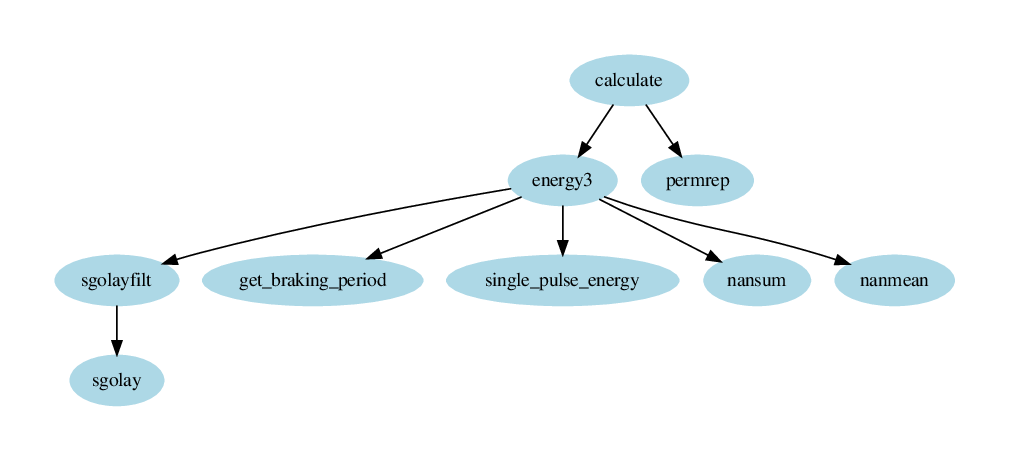
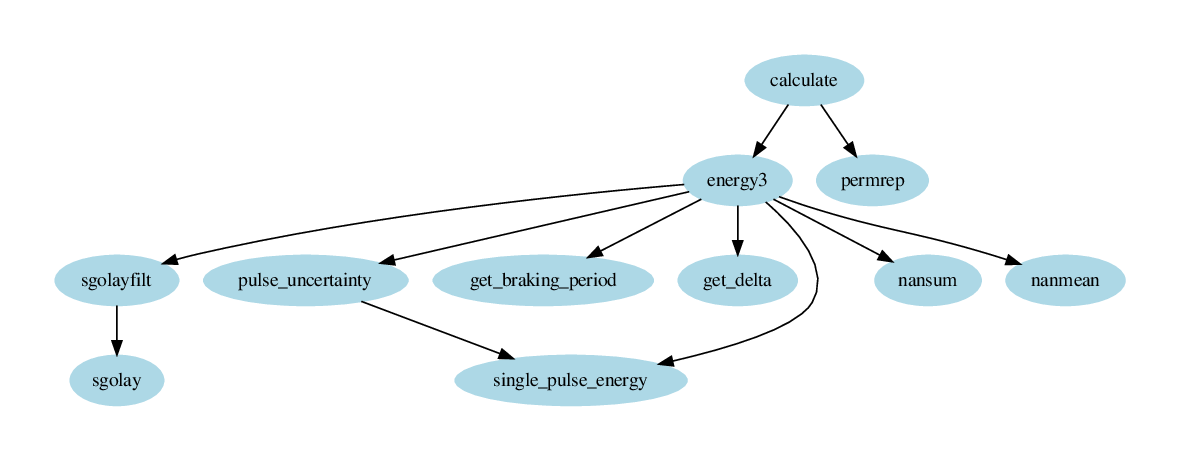
fix: uncertainty calculation

diff --git a/pulse_uncertainty.m b/pulse_uncertainty.m
@@ -26,7 +26,7 @@
 % - pulseno: index of a pulse in the breaking group
 % - dirpath: directory path to all data files
 
-function [uncrE1, uncrE2, uncrEPN1, uncrEPN2 report] = pulse_uncertainty(Ia, Ib, Vhf, Vdsfhf, fs, delta, ids, ide, tshift_pulse, tshift_PN, tshift_pulse_unc, tshift_PN_unc, plots, groupindex, pulseno, dirpath);
+function [uncrE1, uncrE2, uncrEPN1, uncrEPN2, report] = pulse_uncertainty(Ia, Ib, Vhf, Vdsfhf, fs, delta, udelta, ids, ide, tshift_pulse, tshift_PN, tshift_pulse_unc, tshift_PN_unc, plots, groupindex, pulseno, dirpath);
 % uncrE1 - relative uncertainty, configuration 1
 % uncrE2 - relative uncertainty, configuration 2
 % uncrEPN1 - relative uncertainty of noise, configuration 1
@@ -99,88 +99,102 @@ if plots %<<<1
         % plot continues ...
 end %>>>1
 
-% calculate uncertainty of energy based on uncertainty of noise and pulse limits %<<<1
+% calculate uncertainty contribution caused by uncertainty of noise and pulse limits %<<<1
 % generate all possible shifts in time for start/end of pulse
-pulse_ids = (tshift_pulse - tshift_pulse_unc):(tshift_pulse + tshift_pulse_unc);
+tshift_pulse_ids = (tshift_pulse - tshift_pulse_unc):(tshift_pulse + tshift_pulse_unc);
 % generate all possible shifts in time for pulse with noise around:
-PN_ids = (tshift_PN - tshift_PN_unc):(tshift_PN + tshift_PN_unc);
+tshift_PN_ids = (tshift_PN - tshift_PN_unc):(tshift_PN + tshift_PN_unc);
 % loop for all possible starts of pulse:
-for k = 1:length(pulse_ids)
-        idsS = ids - pulse_ids(k);
-        ideS = ide + pulse_ids(k);
+for k = 1:length(tshift_pulse_ids)
+        idsS = ids - tshift_pulse_ids(k);
+        ideS = ide + tshift_pulse_ids(k);
         % loop for all possible starts of noise around pulse:
-        for j = 1:length(PN_ids)
-                idsPN = ids - PN_ids(j);
-                idePN = ide + PN_ids(j);
-                                                                % copied from energy3 - should be changed into subfunction! XXX
-
-% delta randomizace
-% Vhf a Vdsfhf randomizace
-% Ia, Ib randomizace amplitudy
-
-                % RaX and RbX is not needed
-                [E1(k,j), E2(k,j), EPN1(k,j), EPN2(k,j), Ra1, Ra2, Rb1, Rb2, IaN, IbN] = single_pulse_energy(fs, Vhf, Vdsfhf, Ia, Ib, delta, ideS, idsS, idsPN, idePN, []);
-
-                % calculate uncertainty of energy based on current and voltage offsets and gains %<<<2
-                % this uncertainty is calculated only for values if idsS,ideS without uncertainties
-                % (nonrandomized pulse/noise start/end)
-                if (idsS == (ids - tshift_pulse)) && (idsPN == (ids - tshift_PN))
-                        % ensure row vector:
-                        Iatmp = Ia(idsS:ideS)(:)';
-                        % make monte carlo randomization with offset,gain into matrix (rows are monte carlo)
-                        Iam = normrnd(1, urIg, M, 1).*Iatmp + normrnd(0, uIo, M, size(Iatmp, 2));
-                        % subtract estimated offset line:
-                        Iam = bsxfun(@minus, Iam, IaN);
-                        Ibtmp = Ib(idsS:ideS)(:)';
-                        Ibm = normrnd(1, urIg, M, 1).*Ibtmp + normrnd(0, uIo, M, size(Ibtmp, 2));
-                        Ibm = bsxfun(@minus, Ibm, IbN);
-
-                        Vhftmp = Vhf(idsS:ideS)(:)';
-                        Vhfm = normrnd(1, urVg, M, 1).*Vhftmp + normrnd(0, uVo, M, size(Vhftmp, 2));
-                        Vdsfhftmp = Vdsfhf(idsS:ideS)(:)';
-                        Vdsfhfm = normrnd(1, urVg, M, 1).*Vdsfhftmp + normrnd(0, uVo, M, size(Vdsfhftmp, 2));
-
-
-                        tmp1 = trapz(Vhfm   .*Iam, 2)./fs;
-                        tmp2 = trapz(Vdsfhfm.*Ibm, 2)./fs;
-                        # XXX tady asi melo byt uE1(k,j) nebo uE1(i) nebo neco takoveho - ne,
-                        # protoze se to pocita jen jednou
-                        uE1 = trapz(Vhfm   .*Iam, 2)./fs + trapz(Vdsfhfm.*Ibm, 2)./fs;
-                        uE2 = trapz(Vdsfhfm.*Iam, 2)./fs + trapz(Vhfm   .*Ibm, 2)./fs;
-                end %<<<2
-                                                                % % put energy into matrix:
-                                                                % E1p(k,j) = E1(i);
-                                                                % E2p(k,j) = E2(i);
-                                                                % EPN1(k,j) = tmpE1;
-                                                                % EPN2(k,j) = tmpE2;
-
+        for j = 1:length(tshift_PN_ids)
+                idsPN = ids - tshift_PN_ids(j);
+                idePN = ide + tshift_PN_ids(j);
+                % RaX, RbX is not needed
+                [E1a(k,j), E2a(k,j), EPN1a(k,j), EPN2a(k,j), Ra1, Ra2, Rb1, Rb2, IaN, IbN] = single_pulse_energy(...
+                        fs,...
+                        Vhf,...
+                        Vdsfhf,...
+                        Ia,...
+                        Ib,...
+                        delta,...
+                        ideS,...
+                        idsS,...
+                        idsPN,...
+                        idePN,...
+                        []);
                 if plots
+                        % add actual data to plot
+                        % ... plot continues
                         plot(haa, idsS:ideS, IaN)
                         plot(hab, idsS:ideS, IbN)
+                        % plot continues ...
                 end
         end
 end
 
-% calculate relative standard uncertainty: %<<<1
+% Calculate uncertainty contribution caused by delta and current and voltage offsets and gains %<<<1
+% These uncertainties are calculated only for optimal values of idsS,ideS (nonrandomized pulse/noise
+% start/end)
+idsS == ids - tshift_pulse;
+ideS == ide + tshift_pulse;
+idsPN == ids - tshift_PN;
+idePN == ide + tshift_PN;
+
+% randomize delta value - uniform distribution:
+delta = unifrnd(delta - udelta, delta + udelta, M, 1);
+% randomize current gains and offsets
+Ia_offset = normrnd(0, uIo, M, size(Ia, 2));
+Ia_gain = normrnd(1, urIg, M, 1);
+Ib_offset = normrnd(0, uIo, M, size(Ib, 2));
+Ib_gain = normrnd(1, urIg, M, 1);
+% randomize voltage gains and offsets
+Vhf_offset = normrnd(0, uVo, M, size(Vhf, 2));
+Vhf_gain = normrnd(1, urVg, M, 1);
+Vdsfhf_offset = normrnd(0, uVo, M, size(Vdsfhf, 2));
+Vdsfhf_gain = normrnd(1, urVg, M, 1);
+
+% monte carlo loop
+for i = 1:M
+        % RaX, RbX, IaN, IbN is not needed
+        [E1b(i), E2b(i), EPN1b(i), EPN2b(i), Ra1, Ra2, Rb1, Rb2, IaN, IbN] = single_pulse_energy(...
+                fs,...
+                Vhf.*Vhf_gain(i) + Vhf_offset(i),...
+                Vdsfhf.*Vdsfhf_gain(i) + Vdsfhf_offset(i),...
+                Ia.*Ia_gain(i) + Ia_offset(i),...
+                Ib.*Ib_gain(i) + Ib_offset(i),...
+                delta(i),...
+                ideS,...
+                idsS,...
+                idsPN,...
+                idePN,...
+                []);
+end
+
+% calculate total relative standard uncertainty: %<<<1
 % uncertainty by noise fitting:
 % (the probability distribution function is not simple, so suppose rectangular distribution:)
-uncrE1   = ( std(E1(:))./sqrt(3)   )./mean(E1(:));
-uncrE2   = ( std(E2(:))./sqrt(3)   )./mean(E1(:));
-uncrEPN1 = ( std(EPN1(:))./sqrt(3) )./mean(E1(:));
-uncrEPN2 = ( std(EPN2(:))./sqrt(3) )./mean(E1(:));
+uncrE1a   = ( std(E1a(:))./sqrt(3)   )./mean(E1a(:));
+uncrE2a   = ( std(E2a(:))./sqrt(3)   )./mean(E1a(:));
+uncrEPN1a = ( std(EPN1a(:))./sqrt(3) )./mean(EPN1a(:));
+uncrEPN2a = ( std(EPN2a(:))./sqrt(3) )./mean(EPN1a(:));
 
 % uncertainty caused by offset/gain:
-                        # XXX tady asi melo byt uE1(:) nebo neco takoveho - ne, protoze se uE1/2 pocita jen jednou
-urE1 = (uncrE1.^2 + (std(uE1)./mean(E1(:))).^2 )^0.5;
-urE2 = (uncrE2.^2 + (std(uE2)./mean(E2(:))).^2 )^0.5;
+uncrE1b = std(E1b)./mean(E1b(:));
+uncrE2b = std(E2b)./mean(E2b(:));
 
-
-uncrE1 = (uncrE1.^2 + urE1.^2)^0.5;
-uncrE2 = (uncrE2.^2 + urE2.^2)^0.5;
+% total relative uncertainty:
+uncrE1 = (uncrE1a.^2 + uncrE1b.^2)^0.5;
+uncrE2 = (uncrE2a.^2 + uncrE2b.^2)^0.5;
+uncrEPN1 = uncrEPN1a;
+uncrEPN2 = uncrEPN2a;
 
 % display informations: %<<<1
 % description is not really clear, improve! XXX
-report{end+1} = sprintf('pulse %d. u_r from fitting: %.3g, %.3g, from noise/gain: %.3g, %.3g.', pulseno, uncrE1, uncrE2, urE1, urE2);
+report{end+1} = sprintf('pulse %d. u_r from fitting: %.3g, %.3g, from noise/gain: %.3g, %.3g.', pulseno, uncrE1a, uncrE2a, uncrE1b, uncrE2b);
+report{end+1} = sprintf('total uncertainty: %.3g, %.3g.', uncrE1, uncrE2);
 
 if plots
         % finish plotting
@@ -189,8 +203,8 @@ if plots
         set(hab, 'yscale', 'log');
         legend(haa, 'Ia', 'pulse start', 'pulse end', 'time shifted pulse start', 'time shifted pulse end', 'start of noise for fit', 'end of noise for fit', 'fit of noise')
         legend(hab, 'Ib', 'pulse start', 'pulse end', 'time shifted pulse start', 'time shifted pulse end', 'start of noise for fit', 'end of noise for fit', 'fit of noise')
-        title(haa, sprintf('Gr. %d - Selected current pulse no %d\nNoise in pulse region is approx. %g %%', groupindex, pulseno, mean(EPN1(:))./mean(E1(:)).*100))
-        title(hab, sprintf('Gr. %d - Selected current pulse no %d\nNoise in pulse region is approx. %g %%', groupindex, pulseno, mean(EPN2(:))./mean(E2(:)).*100))
+        title(haa, sprintf('Gr. %d - Selected current pulse no %d\nNoise in pulse region is approx. %g %%', groupindex, pulseno, mean(EPN1a(:))./mean(EPN1a(:)).*100))
+        title(hab, sprintf('Gr. %d - Selected current pulse no %d\nNoise in pulse region is approx. %g %%', groupindex, pulseno, mean(EPN2a(:))./mean(EPN1a(:)).*100))
 
         saveplot(sprintf('%05d-selected_current_pulse_Ib_%04d', groupindex, pulseno), dirpath)
         close

diff --git a/single_pulse_energy.m b/single_pulse_energy.m
@@ -1,4 +1,4 @@
-% Script calculates energy of a single pulse, based on paper:
+% Script calculates energy of a single pulse, based on paper: %<<<1
 % D. Giordano, D. Signorino, D. Gallo, H. E. van den Brom, and M. Sira, ‘Methodology for the
 % Accurate Measurement of the Power Dissipated by Braking Rheostats’, Sensors, vol. 20, no. 23, Art.
 % no. 23, Jan. 2020, doi: 10.3390/s20236935.
@@ -38,7 +38,7 @@ function [E1, E2, EPN1, EPN2, Ra1, Ra2, Rb1, Rb2, IaN, IbN] = single_pulse_energ
         % tmpIb = Ib(idsS:ideS) - polyval(pb, [idsS:ideS]);
         IbN = polyval(pb, [idsS:ideS]);
 
-        % resistance of shunts during pulse:
+        % Resistance of shunts during pulse: %<<<1
         id = find(max(Ia(idsS:ideS)) == Ia(idsS:ideS));
         id = id(1) + idsS - 1;
         Ra1 = Vhf   (id)./Ia(id);
@@ -46,18 +46,18 @@ function [E1, E2, EPN1, EPN2, Ra1, Ra2, Rb1, Rb2, IaN, IbN] = single_pulse_energ
         Rb1 = Vhf   (id)./Ib(id);
         Rb2 = Vdsfhf(id)./Ib(id);
 
-        % calculate energy of pulse and noise %<<<1
+        % Calculate energy of pulse and noise %<<<1
         % energy of pulse with noise pulse
         E1 = trapz(Vhf   (idsS:ideS).*Ia(idsS:ideS))./fs + trapz(Vdsfhf(idsS:ideS).*Ib(idsS:ideS))./fs;
         E2 = trapz(Vdsfhf(idsS:ideS).*Ia(idsS:ideS))./fs + trapz(Vhf   (idsS:ideS).*Ib(idsS:ideS))./fs;
         % energy of noise part during pulse:
         EPN1 = trapz(Vhf   (idsS:ideS).*IaN)./fs + trapz(Vdsfhf(idsS:ideS).*IbN)./fs;
         EPN2 = trapz(Vdsfhf(idsS:ideS).*IaN)./fs + trapz(Vhf   (idsS:ideS).*IbN)./fs;
-        % subtract energy of noise from energy of pulse %<<<1
+        % Subtract energy of noise from energy of pulse %<<<1
         E1 = E1 - EPN1;
         E2 = E2 - EPN2;
 
-        % apply pulse shape correction factor K_DC %<<<1
+        % Apply pulse shape correction factor K_DC %<<<1
         % load the table:
         %XXX 2DO load from file
         delta_K_DC_table = [0.007 0.02 0.04 0.08 0.010 0.015 0.030; 0.633 0.850 0.923 0.961 0.969 0.979 0.99]';
@@ -74,7 +74,7 @@ function [E1, E2, EPN1, EPN2, Ra1, Ra2, Rb1, Rb2, IaN, IbN] = single_pulse_energ
         E1 = E1.*K_DC;
         E2 = E2.*K_DC;
 
-        % apply correction for the current sensor K_HOP %<<<1
+        % Apply correction for the current sensor K_HOP %<<<1
         % load the table:
         %XXX 2DO load from file
         delta_K_HOP_table = [0.007 0.02 0.08 0.010 0.015 0.030; 1.124 0.960 0.975 0.980 0.987 0.993];

diff --git a/energy3.m b/energy3.m
@@ -276,7 +276,7 @@ if pulses
         for i = 1:(length(ids))
 
                 % calculate duty cycle - ratio of pulse length to braking period
-                delta(i) = (ide(i) - ids(i))./Tb;
+                [delta(i), udelta(i)] = get_delta(ids(i), ide(i), Tb);
 
                 % IaN and IbN is not needed here
                 [E1(i), E2(i), EPN1(i), EPN2(i), Ra1(i), Ra2(i), Rb1(i), Rb2(i), IaN, IbN] = single_pulse_energy(fs, Vhf, Vdsfhf, Ia, Ib, delta(i), ideS(i), idsS(i), idsPN(i), idePN(i), '');
@@ -294,7 +294,7 @@ if pulses
                 idx2 = idePN(i) + 2*tshift_PN_unc;
                 if any(ids(i) == pulses_for_unc)
                         disp(['calculating uncertainty of pulse id ' num2str(i)])
-                        [uncrE1(i), uncrE2(i), uncrEPN1(i), uncrEPN2(i) report{end+1}] = pulse_uncertainty(Ia(idx1:idx2), Ib(idx1:idx2), Vhf(idx1:idx2), Vdsfhf(idx1:idx2), fs, delta(i), ids(i) - idx1 + 1, ide(i) - idx1 + 1, tshift_pulse, tshift_PN, tshift_pulse_unc, tshift_PN_unc, plots, groupindex, i, dirpath);
+                        [uncrE1(i), uncrE2(i), uncrEPN1(i), uncrEPN2(i) report{end+1}] = pulse_uncertainty(Ia(idx1:idx2), Ib(idx1:idx2), Vhf(idx1:idx2), Vdsfhf(idx1:idx2), fs, delta(i), udelta(i), ids(i) - idx1 + 1, ide(i) - idx1 + 1, tshift_pulse, tshift_PN, tshift_pulse_unc, tshift_PN_unc, plots, groupindex, i, dirpath);
                 end
         end
         % remove start of fictive pulse that was added before the for loop

diff --git a/get_delta.m b/get_delta.m
@@ -1,0 +1,16 @@
+% calculate delta - duty cycle, and its uncertainty
+% Inputs:
+%       ids - index of sample with pulse start
+%       ids - index of sample with pulse end
+%       Tb - braking period in samples
+% Outputs:
+%       delta - duty cycle
+%       udelta - uncertainty of duty cycle
+
+function [delta, udelta] = get_delta(ids, ide, Tb)
+        delta = (ide - ids)./Tb;
+        % estimate of pulse start or end can be by 1 sample
+        % off on both start and end, so 2 samples is the
+        % uncertainty:
+        udelta = 2./Tb;
+end
